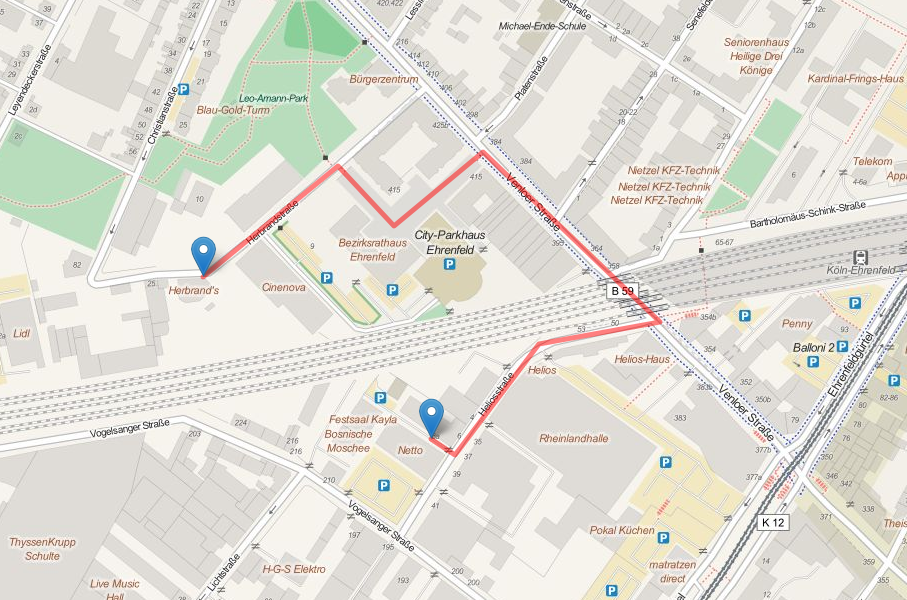
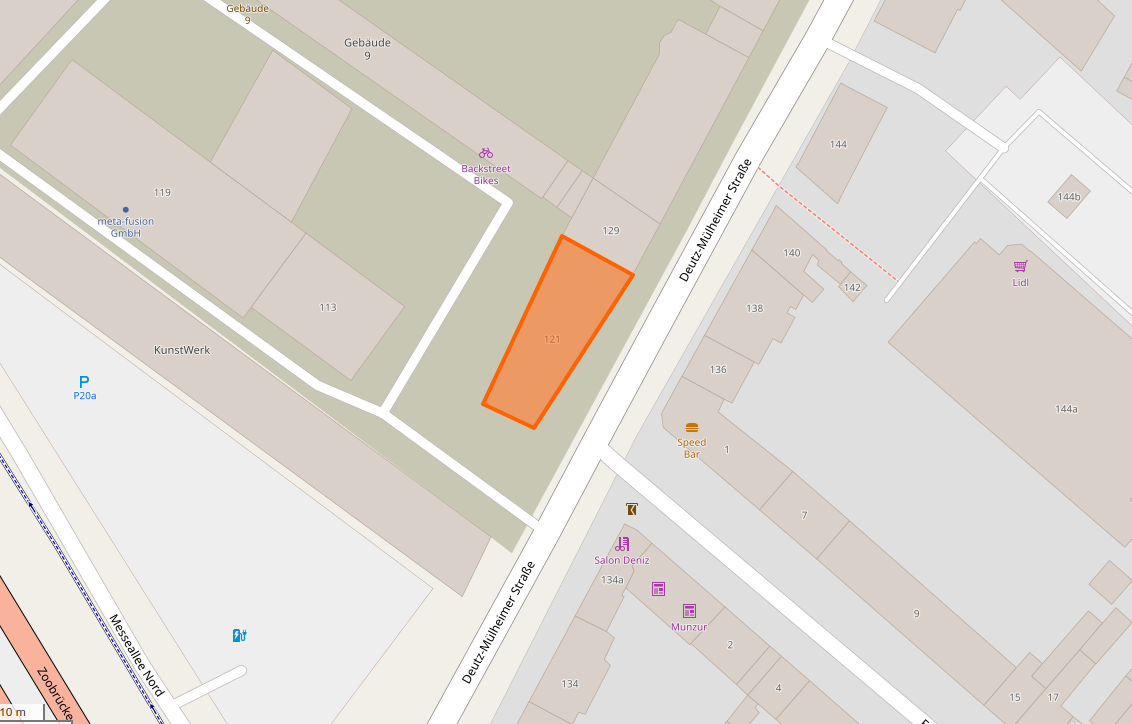
Unzutreffende alte Informationen entfernt

diff --git a/static/js/map.js b/static/js/map.js
@@ -3,8 +3,7 @@
 // erneuern. (Screenshot, Bild sollte die Hoehe von 600px der Karte beibehalten,
 // links und rechts die Steuerelemente der interaktiven Karte abschneiden.)
 
-var coordsC4 = [50.950360, 6.912850];
-var coordsHerbrands = [50.951450, 6.910400];
+var coordsPyCologne = [50.94850, 6.98636];
 
 var map = L.map('map');
 
@@ -13,14 +12,13 @@ L.tileLayer('http://{s}.tile.openstreetmap.org/{z}/{x}/{y}.png', {
     maxZoom: 18,
 }).addTo(map);
 
-var marker = L.marker(coordsC4).addTo(map);
-marker.bindPopup("<strong>Chaos Computer Club</strong><br>Treffen von PyCologne").openPopup();
-marker = L.marker(coordsHerbrands).addTo(map);
-marker.bindPopup("<strong>Herbrand's</strong><br>").openPopup();
+var marker = L.marker(coordsPyCologne).addTo(map);
+marker.bindPopup("<strong>PyCologne</strong>").openPopup();
 
-var path = L.polyline(
-    [coordsC4, [50.950250, 6.913100], [50.951000, 6.914000],
-     [50.951150, 6.915300], [50.952300, 6.913400], [50.951800, 6.912450],
-     [50.952200, 6.911850], coordsHerbrands],
-    {color: 'red'}).addTo(map);
+// var path = L.polyline(
+//     [coordsC4, [50.950250, 6.913100], [50.951000, 6.914000],
+//      [50.951150, 6.915300], [50.952300, 6.913400], [50.951800, 6.912450],
+//      [50.952200, 6.911850], coordsHerbrands],
+//     {color: 'red'}).addTo(map);
+var path = L.polyline([coordsPyCologne, {color: 'red'}).addTo(map);
 map.fitBounds(path.getBounds());

diff --git a/templates/rst/join.rst b/templates/rst/join.rst
@@ -9,60 +9,31 @@ haben.
 Veranstaltungsort
 ~~~~~~~~~~~~~~~~~~
 
-| Chaos-Computer-Club Cologne
-| Heliosstraße 6a
-| 50285 Köln-Ehrenfeld
+| ReHub
+| Deutz-Mülheimer Straße 121
+| 51063 Köln
 | Germany
-
-
-Mailingliste
-~~~~~~~~~~~~~
-
-Wer die pyCologne Aktivitäten verfolgen oder sich daran beteiligen möchte,
-wird gebeten, sich auf unserer Mailingliste einzutragen.
-
-Um die Mailingliste zu abonnieren oder das Abbonnement zu ändern, besuchen Sie
-bitte:
-
-    https://lists.uni-koeln.de/mailman/listinfo/python-users
-
-Um eine Nachricht an die Mailingliste zu schicken, schreiben Sie an:
-
-    [email redacted]
-
-Im Archiv der Mailingliste können Sie hier suchen:
-
-   `Listenarchiv <http://pycologne.de/mlsearch.html>`_
 
 
 Anreise
 ~~~~~~~~
 
-
 ÖPNV
 --------
 
-Die nächsten ÖPNV-Haltestellen sind "Venloer Str./Gürtel" (Straßenbahn Linie 3,
-4 und 13) und der Bahnhof Ehrenfeld (S12, S13, sowie Regionalbahnen).
+Die nächste ÖPNV-Haltestelle ist "Stegerwaldsiedlung" (Straßenbahn Linie 3 und 4).
 
 
 Auto
 -------
 
-Die Verfügbarkeit von Parkplätzen in Ehrenfeld allgemein und im Umkreis des
-Veranstaltunsorts ist sehr gering. Der Parkplatz des Supermarkts nebenan ist
-nur für Kunden und außerhalb der Geschäftszeiten nicht geöffnet!
-
-Der nächste kostenpflichtige Parkplatz ist am Heliosturm (Einfahrt
-Venloerstraße oder Ehrenfeldgürtel), die nächsten Parkhäuser sind am
-Bezirksrathaus und am Neptunbad (über Venloerstraße).
+Parken ist mit etwas Glück in der Umgebung kostenfrei möglich.
 
 
 Karte
 ---------
 
-Auf der folgenden Karte ist die Lage des Veranstaltungsorts (C4) zu ersehen.
-Außerdem ist der Fußweg vom C4 zum Herbrands eingezeichnet.
+Auf der folgenden Karte ist die Lage des Veranstaltungsorts zu ersehen.
 
 
 .. raw:: html
@@ -76,5 +47,5 @@ Außerdem ist der Fußweg vom C4 zum Herbrands eingezeichnet.
 
 
 
-`Openstreetmap.org-Link zu diesem Kartenausschnitt <http://osm.org/go/0GC9nMPHo--?node=445436623>`_
+`Openstreetmap.org-Link zu diesem Kartenausschnitt <https://www.openstreetmap.org/directions?from=&to=50.94855%2C6.98627#map=19/50.94843/6.98642>`_
 | `Karte als Bild </static/images/map.png>`_

diff --git a/templates/rst/contact.rst b/templates/rst/contact.rst
@@ -1,32 +1,6 @@
 Allgemeine Anfragen
 ~~~~~~~~~~~~~~~~~~~
 
-Sie erreichen die Mitglieder der PyCologne User Group über die öffentliche
-Mailingliste_. Um eine Mail an die Liste (und damit alle Abonennten der Liste)
-zu senden, schreiben Sie bitte an [email redacted].
-
-  *Bitte beachten Sie:* Beiträge von Personen, die keine Abonnenten der Liste
-  sind, müssen vom Mailinglisten-Moderator genehmigt werden. Bitte haben Sie
-  dafür Verständnis und ggf. etwas Geduld.
-
-Richten Sie persönliche, nicht öffentliche Anfragen bitte an die Adresse
[email redacted].
-
-.. _mailingliste: /join#Mailingliste
-
-
-Pressekontakt
-~~~~~~~~~~~~~
-
-Wenn Sie sich über die PyCologne User Group informieren möchten oder Fragen zu
-unseren Veranstaltungen haben, kontaktieren Sie bitte unsere Ansprechpartner
-für Presse, Verlage und andere Medien über die Adresse [email redacted].
-
-
-Webseite
-~~~~~~~~
-
-Bei Problemen mit dieser Webseite oder Kommentaren und Verbesserungsvorschlägen
-dazu, schreiben Sie bitte an [email redacted].
-
-
+Die Webseite befindet sich gerade erst wieder im Aufbau, sobald die technischen
+Gegebenheiten erfüllt sind, werden wir passende Kontaktmöglichkeiten zur
+Verfügung stellen.

diff --git a/templates/rst/events/2024-02-14.rst b/templates/rst/events/2024-02-14.rst
@@ -1,0 +1,19 @@
+PyCologne Treffen February 2024
+===============================
+
+Datum:
+  Mi, 14.02.2024
+Uhrzeit:
+  19:00
+Ort:
+  Chaos Computer Club Cologne, Heliosstr. 6a 50825 Köln (Anfahrt_)
+
+Wir werden uns mit der Frage beschäftigen, wie wir uns zukünftig auf
+dieser Webseite nach außen präsentieren wollen und wie wir die Organisation
+verbessern können.
+
+
+.. _Anfahrt: /join
+.. _Mailingliste: /join
+.. _Meetup: http://www.meetup.com/pyCologne/
+.. _Protokoll: http://yourpart.eu/p/pyc_20240214

diff --git a/templates/rst/events.rst b/templates/rst/events.rst
@@ -1,12 +1,2 @@
 
-* 7.--8. April 2018 -  python barcamp 2018, Köln, Webseite kommt bald
-* Oktober 2018 - `PyCon.DE 2018`_, Karlsruhe
-
-
-Alte Termine
-------------
-
-* 25.--27. Oktober 2017 - `PyCon.DE 2017`_
-
-.. _PyCon.DE 2017: https://de.pycon.org/
-.. _PyCon.DE 2018: https://de.pycon.org/
+* 14. Februar 2024 - PyCologne mit neuer Webseite... komm und gestalte mit.